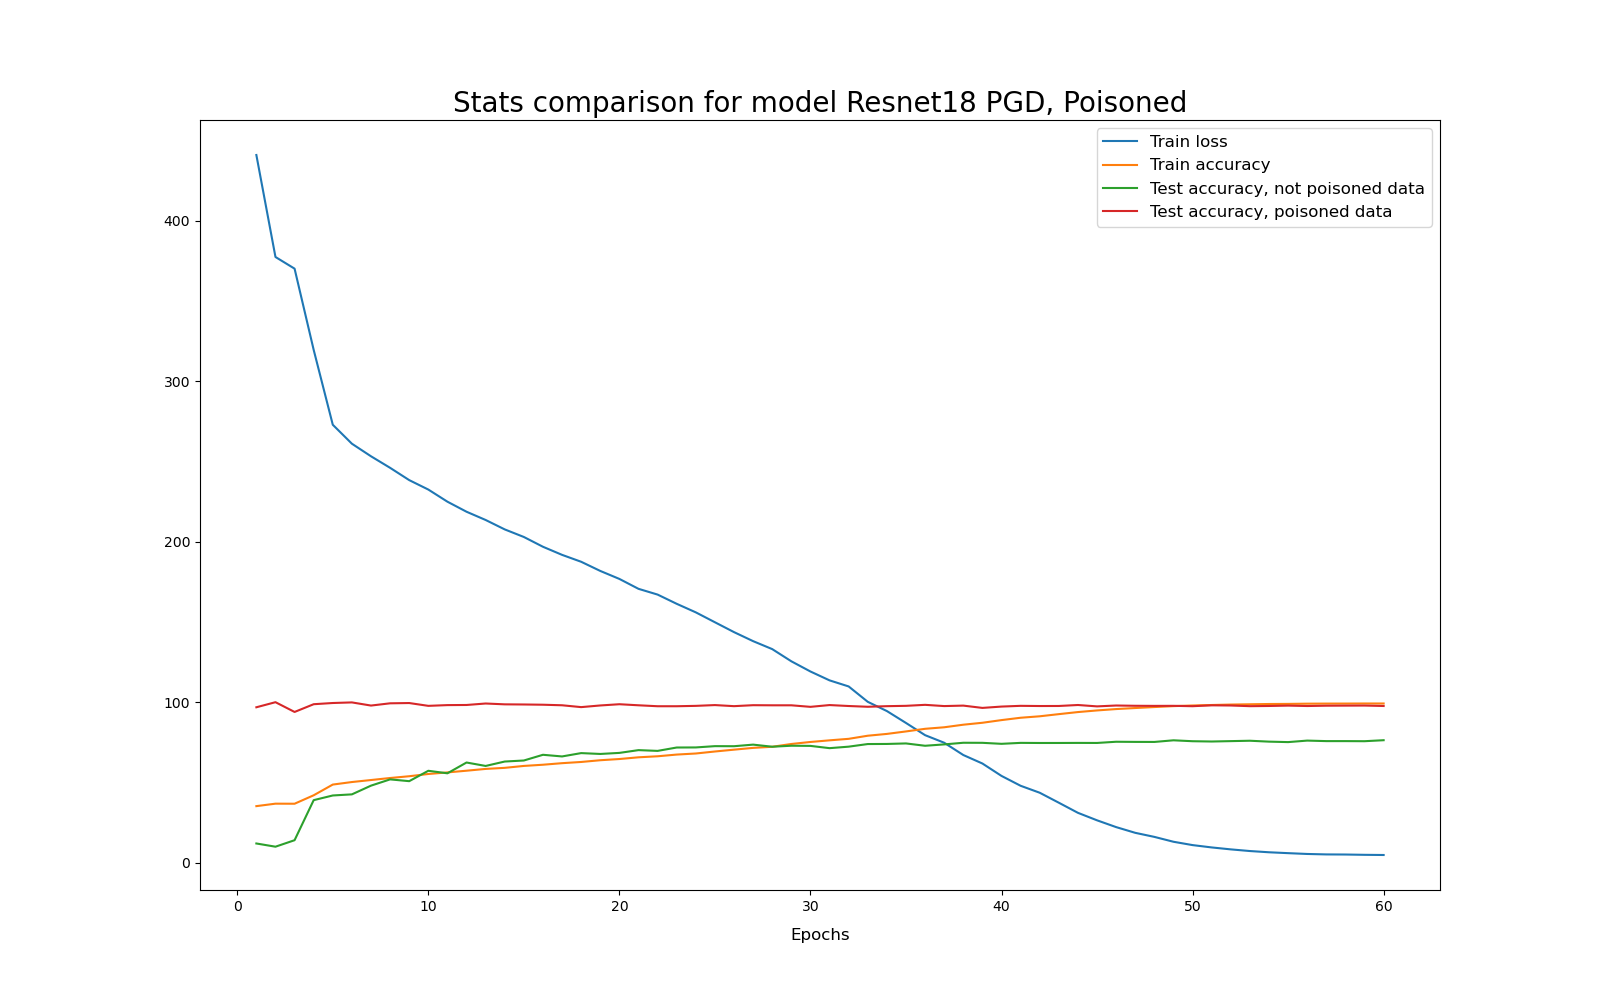
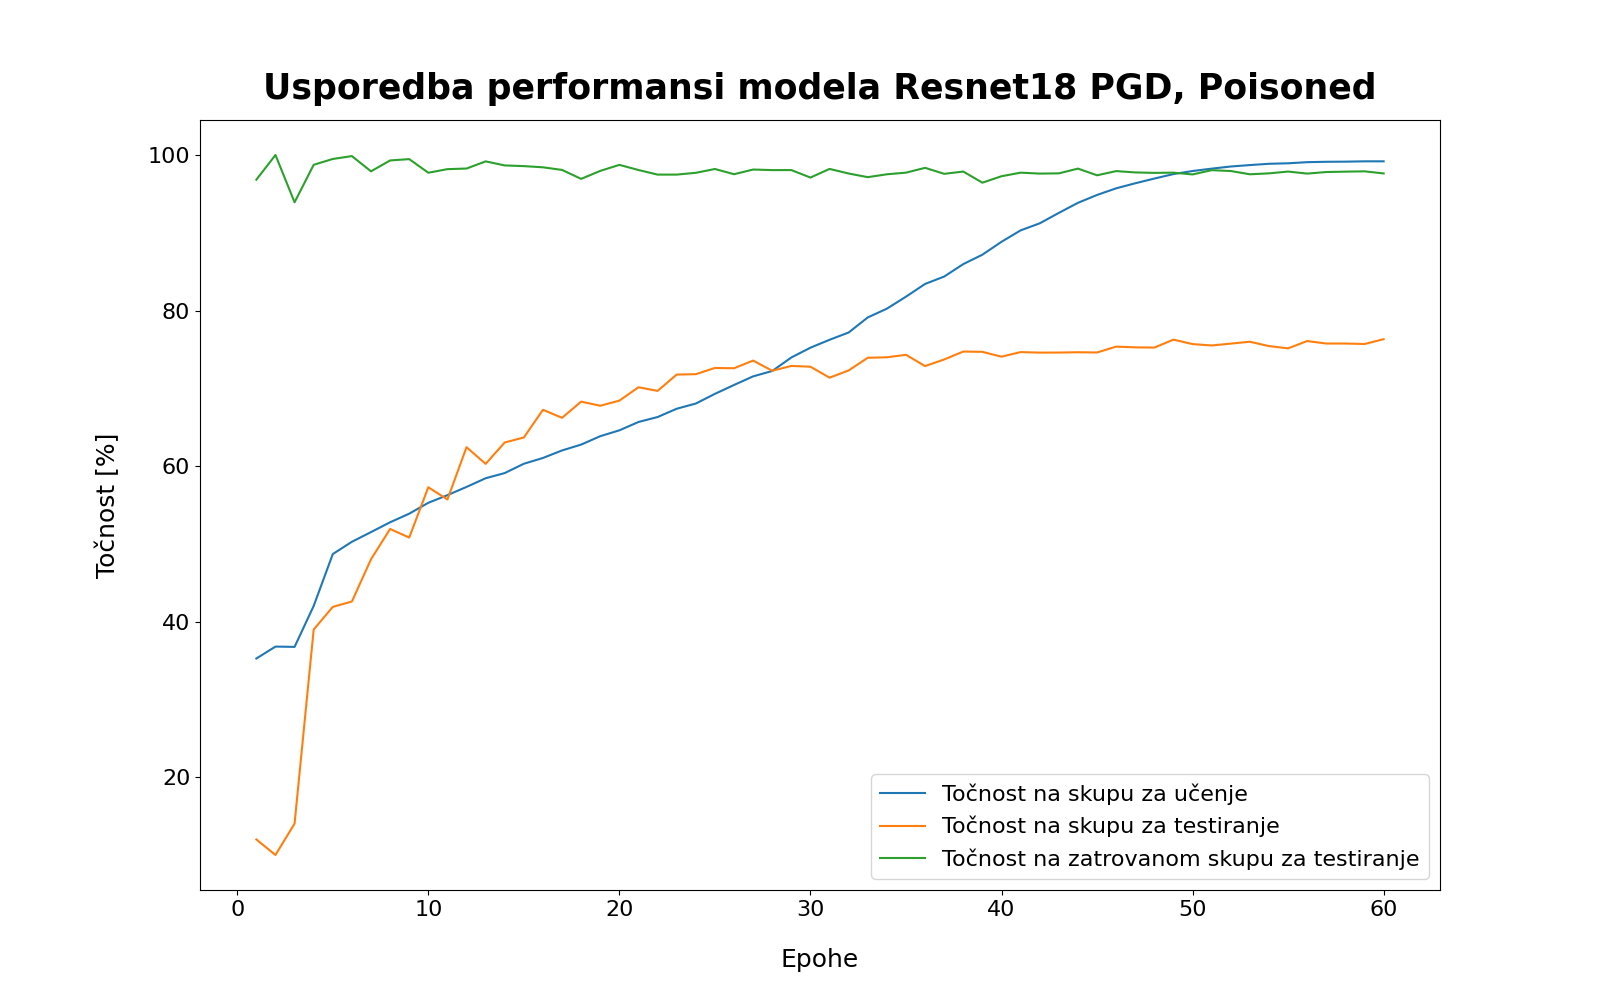
experiments, graphs

diff --git a/Dokumentacija/zavrsni.tex b/Dokumentacija/zavrsni.tex
@@ -907,6 +907,50 @@ te korištenja PGD metode za generiranje neprijateljskih primjera kada se uoči 
 
 \section{Prelimarno istraživanje primjene učenja s neprijateljskim primjerima za detekciju zatrovanih podataka}
 
+Robusni modeli nude nam određenu mjeru otpornosti na neprijateljske primjere. 
+Ipak, značajniji problem predstavljaju nam zatrovani podaci ubačeni u skup za učenje jer zbog njih model može imati lošije performanse, a i služiti kao stražnja vrata napadačima.
+Obični, nerobusni modeli tijekom učenja na zatrovanom skupu podataka veoma brzo nauče prepoznavati okidač, time postajući ranjivi.
+Idealno, modeli učeni s neprijateljskim primjerima pokazivali bi određenu mjeru otpornosti na zatrovane podatke.
+
+Kako bismo provjerili imaju li robusni modeli doista mogućnost detekcije zatrovanih podataka,
+učili smo \textit{PGD} modele, kao i \textit{FastAdv} modele. \textit{PGD} modeli odabrani su zbog visoke otpornosti na neprijateljske primjere,
+a \textit{FastAdv} modeli odabrani su zbog veoma kratkog trajanja učenja. Uz robusne modele, učeni su i prirodni modeli.
+Pritom su svi modeli učeni 60 epoha kako bismo izbjegli pojavu katastrofalne prenaučenosti do koje često dolazi u kasnijim epohama učenja \textit{FastAdv} modela. 
+
+\pagebreak
+
+Zatrovani skup podataka za učenje, kao i zatrovani skup za testiranje, generirani su iz prirodnog CIFAR-10 skupa podataka koristeći \textit{BadNets} 
+alat iz skupa alata \textit{BackdoorBox}. Pritom je za skup za učenje stopa trovanja iznosila 0.3, a za skup za testiranje 1. Stopa trovanja određuje koliki će postotak podataka iz originalnog skupa biti zatrovan.
+I za skup za učenje i za skup za testiranje kao ciljni razred odabran je razred \textit{automobile}. 
+U slučaju da na ulaznoj slici postoji okidač, model koji ga je tijekom učenja naučio takvu sliku klasificirati će u razred \textit{automobile}.
+Arhitektura modela, mjera gubitka, optimizator i hiperparametri za učenje jednaki su kao i u prethodnim eksperimentima. 
+Kao i prije, svi modeli osim \textit{FastAdv} modela učeni su koristeći stopu učenja s kosinusnim žarenjem, dok \textit{FastAdv} modeli koriste cikličku stopu učenja.
+Osim na zatrovanom skupu podataka, svi modeli učeni su i na prirodnom skupu podataka.
+
+Kao i prije, u tablici~\ref{tbl:mjerenja_robusno_ucenje_zatrovano} stupac \textit{Način učenja} označava korišteni način učenja modela. Ako je na kraju naziva načina učenja 
+riječ \textit{Poison}, model je učen na zatrovanom skupu podataka. Stupac \textit{Točnost} ponovno označava točnost na prirodnom skupu podataka, a stupac \textit{Točnost, otrov}
+označava točnost na zatrovanom skupu podataka. Iznosi točnosti, kao i vremena učenja zaokruženi su na jedno decimalno mjesto.
+\begin{table}[htb]
+    \caption{Rezultati raznih načina učenja na zatrovanom i prirodnom skupu podataka}
+    \label{tbl:mjerenja_robusno_ucenje_zatrovano}
+    \centering
+    \begin{tabular}{lllll} \hline
+    Način učenja & LR & Točnost [\%] & Točnost, otrov [\%] & Vrijeme učenja [min]\\ \hline
+    Natural & 0.02 & 86 & 10.2 & 27.1 \\
+    Natural, Poison & 0.02 & 81.7 & 98.2 & 29.1 \\
+    PGD & 0.1 & 79.2 & 9.9 & 144.6 \\
+    PGD, Poison & 0.1 & 76.3 & 97.6 & 146.4 \\
+    FastAdv & 0.2 & 79.6 & 9.9 & 44.1 \\
+    FastAdv, Poison & 0.2 & 75.8 & 97.6 & 51.4 \\ \hline
+    \end{tabular}
+\end{table}
+
+Kao što možemo vidjeti u tablici~\ref{tbl:mjerenja_robusno_ucenje_zatrovano}, svi modeli učeni na prirodnom skupu podataka imaju točnost na zatrovanim podacima iznosa otprilike $10\%$.
+Ovaj rezultat interpretiramo tako da modeli učeni na prirodnom skupu ispravno klasificiraju većinu zatrovanih slika koje uistinu i potječu iz ciljnog razreda, pritom se ne obazirući na okidač.
+Modeli učeni na zatrovanom skupu podataka imaju malo nižu točnost na prirodnom skupu, ali i veoma visoku točnost na zatrovanim podatcima. 
+Visoka točnost na zatrovanim podatcima govori nam da su svi modeli učeni na zatrovanom skupu naučili okidač. 
+Drugim riječima, čak ni robusni modeli poput \textit{PGD} modela nisu otporni na zatrovane podatke.
+
 \chapter{Zaključak}
 Zaključak.
 

diff --git a/poisoned_testing_main.py b/poisoned_testing_main.py
@@ -988,36 +988,36 @@ if __name__ == "__main__":
     # ResNet18 PGD L2 norm, max eps, poisoned (generating adversarial examples with L2 norm)
     ##############################################################################
     
-    model = ResidualNetwork18().to(device)
-    model_name = f"resnet18_poisoned_pgd_l2_epochs_60_lr_0.1_eps512_255"
-    model_save_path= f"./models/{model_name}.pt"
-    model.load_state_dict(torch.load(model_save_path))
+    # model = ResidualNetwork18().to(device)
+    # model_name = f"resnet18_poisoned_pgd_l2_epochs_60_lr_0.1_eps512_255"
+    # model_save_path= f"./models/{model_name}.pt"
+    # model.load_state_dict(torch.load(model_save_path))
 
-    loss_calc = nn.CrossEntropyLoss()
+    # loss_calc = nn.CrossEntropyLoss()
 
-    x, y = next(iter(poisoned_test_loader))
-    _, y_true = next(iter(test_loader))
+    # x, y = next(iter(poisoned_test_loader))
+    # _, y_true = next(iter(test_loader))
 
-    x = x.to(device)
-    y = y.to(device)
+    # x = x.to(device)
+    # y = y.to(device)
 
-    eps=512/255
-    alpha=64/255
+    # eps=512/255
+    # alpha=64/255
 
-    adv_x = attack_pgd_l2(model, x, y, eps=eps, alpha=alpha, steps=20, device=device).to(device)
+    # adv_x = attack_pgd_l2(model, x, y, eps=eps, alpha=alpha, steps=20, device=device).to(device)
 
-    adv_y_ = model(adv_x)
-    _, adv_y_ = adv_y_.max(1)
+    # adv_y_ = model(adv_x)
+    # _, adv_y_ = adv_y_.max(1)
 
-    y_ = model(x)
-    _, y_ = y_.max(1)
+    # y_ = model(x)
+    # _, y_ = y_.max(1)
 
-    adv_dict = dict()
-    for i in range(len(y_true)):
-        if(classes_map[y_true[i].item()] in list(adv_dict.keys())):
-            continue
-        adv_dict.update({classes_map[y_true[i].item()]: [AdvExampleVerbose(classes_map[y_[i].item()], classes_map[adv_y_[i].item()], x[i].cpu().numpy(), adv_x[i].cpu().numpy())]})
-        if len(list(adv_dict.keys())) == 3:
-            break
+    # adv_dict = dict()
+    # for i in range(len(y_true)):
+    #     if(classes_map[y_true[i].item()] in list(adv_dict.keys())):
+    #         continue
+    #     adv_dict.update({classes_map[y_true[i].item()]: [AdvExampleVerbose(classes_map[y_[i].item()], classes_map[adv_y_[i].item()], x[i].cpu().numpy(), adv_x[i].cpu().numpy())]})
+    #     if len(list(adv_dict.keys())) == 3:
+    #         break
     
-    graph_poisoned_examples(adv_dict, f"poisoned_adv_examples_l2_eps_{int(eps*255)}_255", save=True, show=False)
+    # graph_poisoned_examples(adv_dict, f"poisoned_adv_examples_l2_eps_{int(eps*255)}_255", save=True, show=False)

diff --git a/graphing_funcs.py b/graphing_funcs.py
@@ -108,14 +108,17 @@ def compare_stats(name, model_name, save=False, show=True):
             test_poisoned_acc.append(data[key]["test_poisoned_accuracy"])
 
     # Plot the data
-    plt.plot(range(1, num_of_epochs+1), np.array(train_loss), label="Train loss")
-    plt.plot(range(1, num_of_epochs+1), np.array(train_acc), label="Train accuracy")
-    plt.plot(range(1, num_of_epochs+1), np.array(test_not_poisoned_acc), label="Test accuracy, not poisoned data")
-    plt.plot(range(1, num_of_epochs+1), np.array(test_poisoned_acc), label="Test accuracy, poisoned data")
+    # plt.plot(range(1, num_of_epochs+1), np.array(train_loss), label="Gubitak na skupu za učenje")
+    plt.plot(range(1, num_of_epochs+1), np.array(train_acc), label="Točnost na skupu za učenje")
+    plt.plot(range(1, num_of_epochs+1), np.array(test_not_poisoned_acc), label="Točnost na skupu za testiranje")
+    plt.plot(range(1, num_of_epochs+1), np.array(test_poisoned_acc), label="Točnost na zatrovanom skupu za testiranje")
 
-    plt.xlabel("Epochs", labelpad=10, fontsize=12)
-    plt.title(f"Stats comparison for model {model_name}", fontsize=20)
-    plt.legend(fontsize=12)
+    plt.xlabel("Epohe", fontsize=18, labelpad=20)
+    plt.ylabel("Točnost [%]", fontsize=18, labelpad=20)
+    plt.xticks(fontsize=16)
+    plt.yticks(fontsize=16)
+    plt.title(f"Usporedba performansi modela {model_name}", fontweight='bold', fontsize=25, pad=15)
+    plt.legend(fontsize=16)
 
     if save:
         save_path = f"./stats/{name}/stats_comparison.png"
